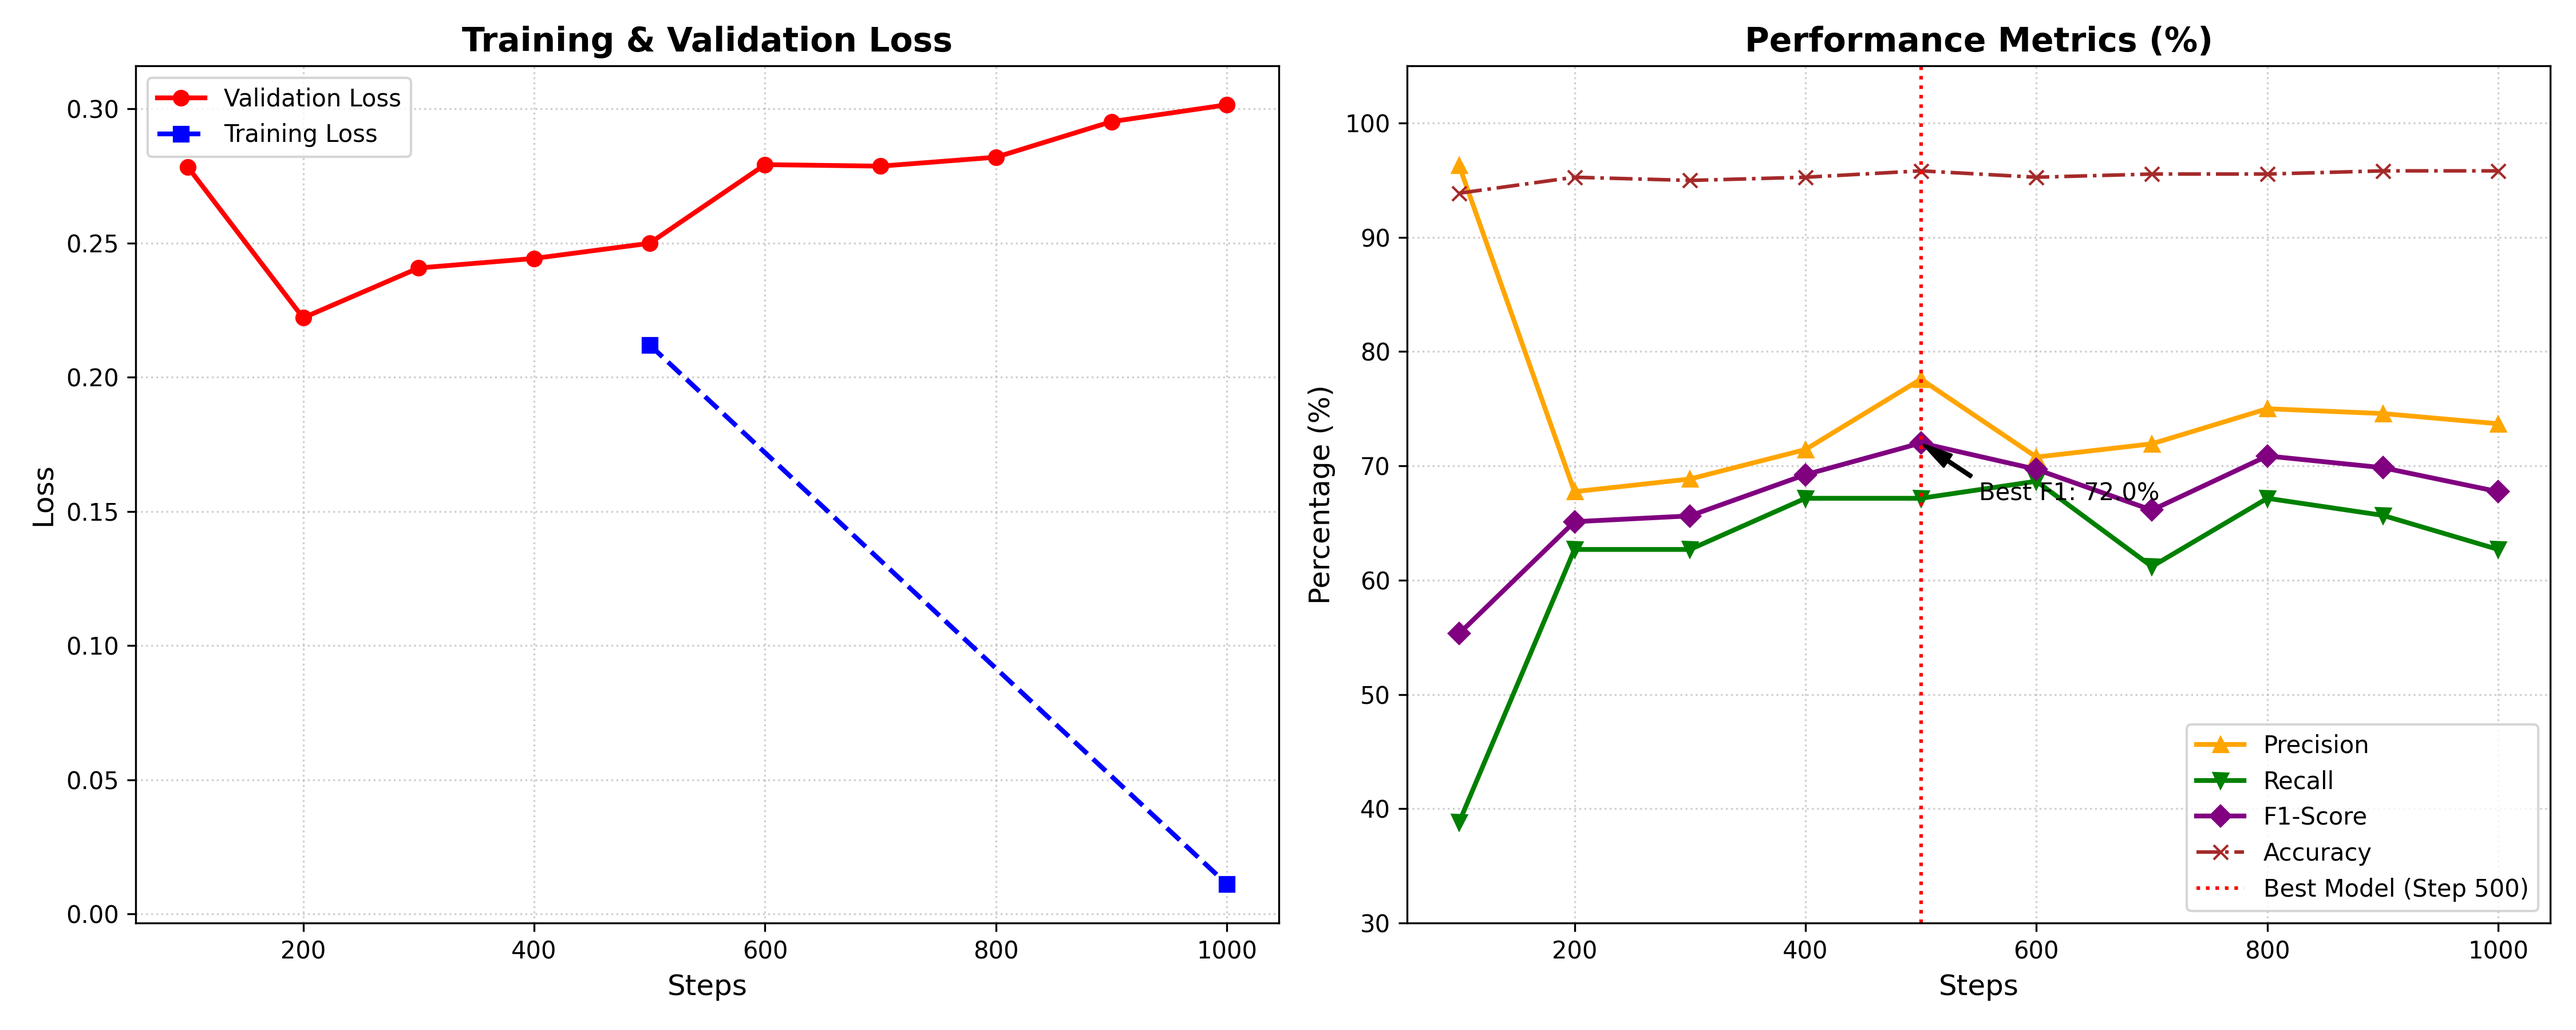
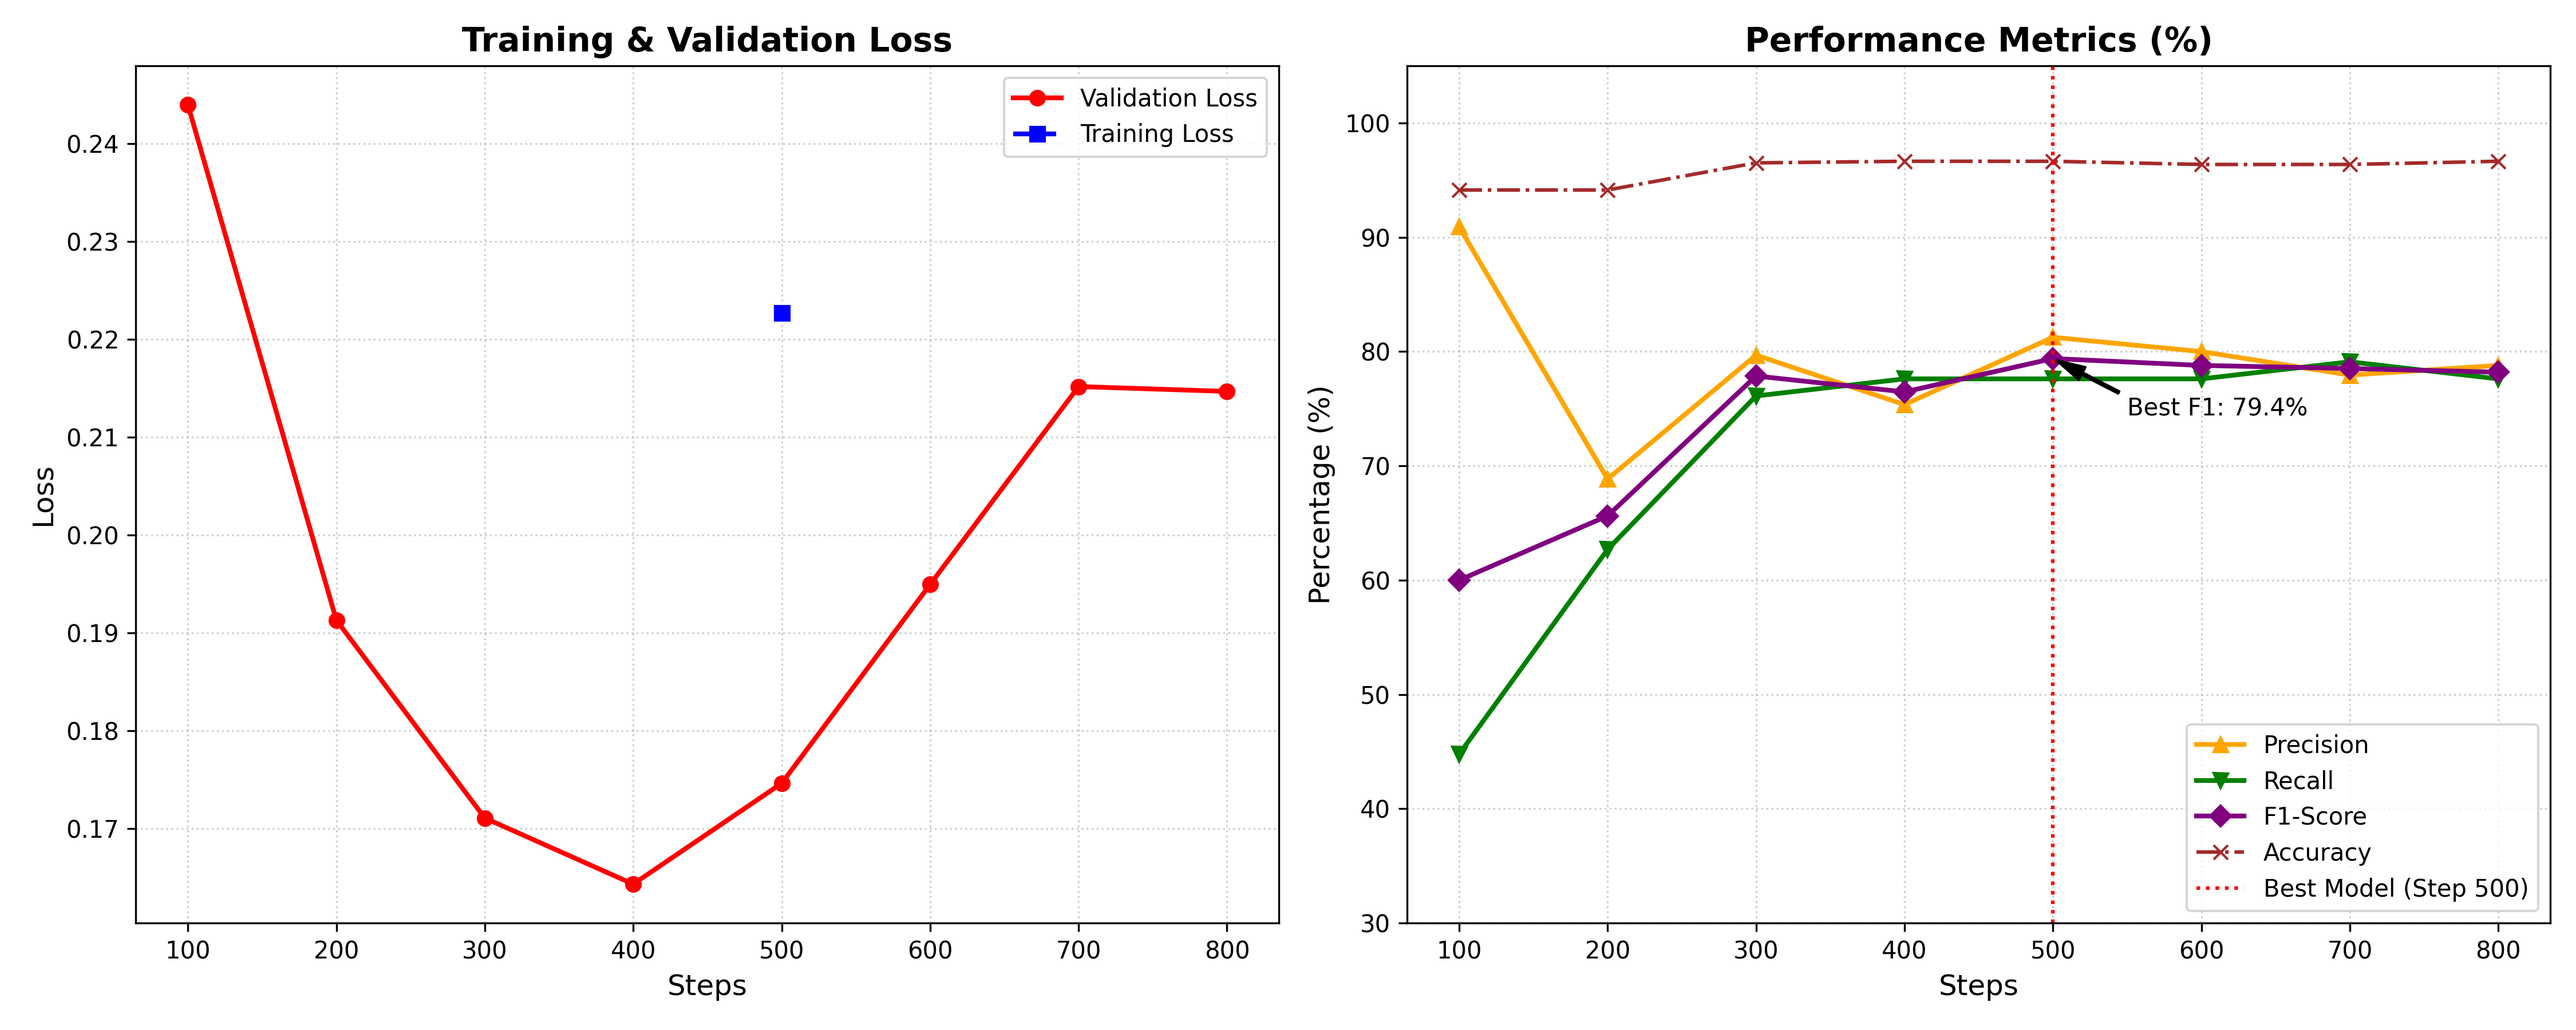
Retrain model chính thức với weight_decay + early stopping, cập nhật số liệu

diff --git a/src/plot_metrics.py b/src/plot_metrics.py
@@ -7,19 +7,24 @@ from pathlib import Path
 PROJECT_ROOT = Path(__file__).resolve().parent.parent
 
 def main():
-    state_path = str(PROJECT_ROOT / "layoutlmv3-medical" / "checkpoint-1000" / "trainer_state.json")
-    if not os.path.exists(state_path):
-        print(f"Error: Could not find {state_path}")
+    # Đọc từ `trainer_log_history.json` được lưu cùng model đã fine-tune
+    # (layoutlmv3-medical-finetuned/), KHÔNG đọc từ thư mục checkpoint trung gian
+    # (layoutlmv3-medical/checkpoint-*) -- thư mục đó bị `run_training()` tự dọn
+    # sau khi train xong (tránh làm đầy ổ đĩa, xem step5_layoutlmv3_finetune.py),
+    # nên log_history phải được lưu lại ở nơi bền vững trước khi checkpoint mất đi.
+    log_path = str(PROJECT_ROOT / "layoutlmv3-medical-finetuned" / "trainer_log_history.json")
+    if not os.path.exists(log_path):
+        print(f"Error: Could not find {log_path}. Hãy chạy lại src/step5_layoutlmv3_finetune.py trước.")
         return
 
-    with open(state_path, "r", encoding="utf-8") as f:
-        state_data = json.load(f)
+    with open(log_path, "r", encoding="utf-8") as f:
+        log_history = json.load(f)
 
     # Extract eval metrics and train metrics
     eval_history = []
     train_history = []
-    
-    for entry in state_data.get("log_history", []):
+
+    for entry in log_history:
         if "eval_loss" in entry:
             eval_history.append({
                 "step": entry["step"],
@@ -45,8 +50,11 @@ def main():
     for row in eval_history:
         print(f"| {row['step']:4d} | {row['epoch']:5.2f} | {row['loss']:.4f}    | {row['precision']*100:12.2f} | {row['recall']*100:9.2f} | {row['f1']*100:12.2f} | {row['accuracy']*100:11.2f} |")
     
+    best_row = max(eval_history, key=lambda row: row["f1"]) if eval_history else None
+
     print("\n" + "="*40)
-    print(f"Chỉ số tốt nhất (Best F1-Score): {state_data.get('best_metric', 0)*100:.2f}% tại checkpoint: {state_data.get('best_model_checkpoint', 'N/A')}")
+    if best_row:
+        print(f"Chỉ số tốt nhất (Best F1-Score): {best_row['f1']*100:.2f}% tại Step {best_row['step']}")
     print("="*40)
 
     # 2. Plotting the metrics
@@ -77,12 +85,12 @@ def main():
     ax2.plot(steps, [f*100 for f in f1], label="F1-Score", color="purple", marker="D", linewidth=2)
     ax2.plot(steps, [a*100 for a in accuracy], label="Accuracy", color="brown", marker="x", linestyle="-.", linewidth=1.5)
     
-    # Highlight best model checkpoint (F1 = 72% at step 500)
-    best_step = 500
-    best_f1 = 0.72 * 100
-    ax2.axvline(x=best_step, color="red", linestyle=":", label="Best Model (Step 500)")
-    ax2.annotate(f"Best F1: {best_f1:.1f}%", xy=(best_step, best_f1), xytext=(best_step+50, best_f1-5),
-                 arrowprops=dict(facecolor='black', shrink=0.05, width=1, headwidth=6))
+    # Highlight best model checkpoint (xác định động từ eval_history, không hardcode)
+    if best_row:
+        best_step, best_f1 = best_row["step"], best_row["f1"] * 100
+        ax2.axvline(x=best_step, color="red", linestyle=":", label=f"Best Model (Step {best_step})")
+        ax2.annotate(f"Best F1: {best_f1:.1f}%", xy=(best_step, best_f1), xytext=(best_step+50, best_f1-5),
+                     arrowprops=dict(facecolor='black', shrink=0.05, width=1, headwidth=6))
 
     ax2.set_title("Performance Metrics (%)", fontsize=14, fontweight="bold")
     ax2.set_xlabel("Steps", fontsize=12)

diff --git a/src/step5_layoutlmv3_finetune.py b/src/step5_layoutlmv3_finetune.py
@@ -224,6 +224,12 @@ def run_training(
     if save_dir:
         trainer.model.save_pretrained(save_dir)
         processor.save_pretrained(save_dir)
+        # Lưu lại toàn bộ log_history (loss/precision/recall/f1/accuracy theo từng
+        # eval step) VÀO save_dir trước khi run_output_dir (chứa checkpoint) bị dọn
+        # bên dưới -- nếu không, dữ liệu để vẽ lại biểu đồ huấn luyện (plot_metrics.py)
+        # sẽ bị mất vĩnh viễn cùng với checkpoint.
+        with open(os.path.join(save_dir, "trainer_log_history.json"), "w", encoding="utf-8") as f:
+            json.dump(trainer.state.log_history, f, ensure_ascii=False, indent=2)
 
     # Giải phóng bộ nhớ GPU trước khi chạy fold/run tiếp theo
     del trainer, model

diff --git a/README.md b/README.md
@@ -218,39 +218,37 @@ Vì tập gán nhãn chỉ có **45 tài liệu**, một lần chia train/test c
 
 | Loại thực thể | Baseline rule-based | LayoutLMv3, 1 lần chia (9 mẫu) | LayoutLMv3, **5-Fold out-of-fold (45 mẫu)** | Support (OOF) |
 |:---|:---:|:---:|:---:|:---:|
-| Lab_Value | 12.1% | 88.9% | **97.9%** | 145 |
+| Lab_Value | 12.1% | 100.0% | **97.9%** | 145 |
 | Medication | 0.0% | 80.0% | **76.9%** | 38 |
-| Diagnosis | 0.0% | 58.8% | **63.7%** | 74 |
-| Patient_Name | 21.1% | 82.4% | **62.5%** | 48 |
-| Dosage | 0.0% | 26.7% | **44.8%** | 82 |
-| **Micro avg (tổng)** | **11.3%** | **72.0%** | **73.6%** | 387 |
+| Diagnosis | 0.0% | 66.7% | **63.7%** | 74 |
+| Patient_Name | 21.1% | 70.0% | **62.5%** | 48 |
+| Dosage | 0.0% | 30.8% | **44.8%** | 82 |
+| **Micro avg (tổng)** | **11.3%** | **79.4%** | **73.6%** | 387 |
 
 **Nhận định:**
-*   F1 trung bình 5 fold (72.87%) và F1 out-of-fold (73.6%) đều rất khớp với con số 72.00% của lần chia đơn ban đầu — bằng chứng thống kê cho thấy con số này **không phải may rủi của 1 lần chia**, dù độ lệch chuẩn ±4.75% cho thấy vẫn còn dao động do dữ liệu nhỏ.
-*   Mô hình vượt baseline rule-based rõ rệt trên mọi loại thực thể (73.6% vs 11.3% F1 tổng) — việc fine-tune một mô hình đa phương thức thực sự cần thiết so với cách tiếp cận rule-based.
-*   So sánh cột "1 lần chia" và "out-of-fold" cho thấy lý do nên nghi ngờ số liệu đo trên tập nhỏ: `Patient_Name` trông rất tốt (82.4%) khi chỉ đo trên 10 thực thể, nhưng rơi xuống 62.5% khi đo trên 48 thực thể (out-of-fold) — con số ban đầu chỉ là may mắn trên vài mẫu test. Ngược lại `Dosage` trông rất tệ (26.7%, support 5) nhưng thực ra khá hơn (44.8%, support 82) khi đo trên nhiều thực thể hơn.
-*   **`Dosage` là loại thực thể yếu nhất một cách nhất quán ở cả 2 cách đo** — hướng cải thiện cụ thể, đáng ưu tiên nhất khi có thêm dữ liệu gán nhãn.
+*   F1 trung bình 5 fold (72.87%) và F1 out-of-fold (73.6%) đều gần với con số 79.4% của lần chia đơn (checkpoint triển khai chính thức) nhưng **thấp hơn khoảng 6-7 điểm** — đây chính là bằng chứng cụ thể cho lý do phải dùng K-Fold CV thay vì tin vào 1 lần chia: dù dùng đúng config đã regularize, 1 lần chia 9 mẫu vẫn có thể "may mắn" hơn ước lượng trung bình thật sự trên toàn bộ dữ liệu. **Con số 72.87% (± 4.75%) / 73.6% out-of-fold mới là ước lượng đáng tin cậy về khả năng tổng quát hoá thật của mô hình**, không phải 79.4%.
+*   Mô hình vượt baseline rule-based rõ rệt trên mọi loại thực thể (73.6% vs 11.3% F1 tổng, đo out-of-fold) — việc fine-tune một mô hình đa phương thức thực sự cần thiết so với cách tiếp cận rule-based.
+*   So sánh cột "1 lần chia" và "out-of-fold" tiếp tục cho thấy vì sao nên nghi ngờ số liệu đo trên tập nhỏ: `Patient_Name` trông khá tốt (70.0%) khi chỉ đo trên 10 thực thể, nhưng rơi xuống 62.5% khi đo trên 48 thực thể (out-of-fold). Ngược lại `Dosage` trông tệ hơn thực tế (30.8%, support 5) so với con số đo trên nhiều thực thể hơn (44.8%, support 82).
+*   **`Dosage` là loại thực thể yếu nhất một cách nhất quán ở mọi cách đo** — hướng cải thiện cụ thể, đáng ưu tiên nhất khi có thêm dữ liệu gán nhãn.
 
 ### 2. Quá trình huấn luyện chính thức (Bước 5, 1 lần chia)
 
-Model triển khai (`layoutlmv3-medical-finetuned/`) được chọn theo checkpoint tốt nhất của lần huấn luyện chính thức này (1000 bước, chia cố định 36 train / 9 test):
+Model triển khai (`layoutlmv3-medical-finetuned/`) được chọn theo checkpoint tốt nhất của lần huấn luyện chính thức này (chia cố định 36 train / 9 test, `weight_decay=0.01` + `EarlyStoppingCallback`):
 
 ![Biểu Đồ Huấn Luyện LayoutLMv3](assets/training_progress.png)
 
 | Step | Epoch | Eval Loss | Precision (%) | Recall (%) | F1-Score (%) | Accuracy (%) |
 |:---:|:---:|:---:|:---:|:---:|:---:|:---:|
-| 100 | 11.11 | 0.2784 | 96.30 | 38.81 | 55.32 | 93.85 |
-| 200 | 22.22 | 0.2221 | 67.74 | 62.69 | 65.12 | 95.25 |
-| 300 | 33.33 | 0.2407 | 68.85 | 62.69 | 65.63 | 94.97 |
-| 400 | 44.44 | 0.2443 | 71.43 | 67.16 | 69.23 | 95.25 |
-| **500 (Best)** | **55.56** | **0.2499** | **77.59** | **67.16** | **72.00** | **95.81** |
-| 600 | 66.67 | 0.2793 | 70.77 | 68.66 | 69.70 | 95.25 |
-| 700 | 77.78 | 0.2787 | 71.93 | 61.19 | 66.13 | 95.53 |
-| 800 | 88.89 | 0.2820 | 75.00 | 67.16 | 70.87 | 95.53 |
-| 900 | 100.00 | 0.2953 | 74.58 | 65.67 | 69.84 | 95.81 |
-| 1000 | 111.11 | 0.3016 | 73.68 | 62.69 | 67.74 | 95.81 |
+| 100 | 11.11 | 0.2439 | 90.91 | 44.78 | 60.00 | 94.13 |
+| 200 | 22.22 | 0.1913 | 68.85 | 62.69 | 65.63 | 94.13 |
+| 300 | 33.33 | 0.1711 | 79.69 | 76.12 | 77.86 | 96.51 |
+| 400 | 44.44 | 0.1643 | 75.36 | 77.61 | 76.47 | 96.65 |
+| **500 (Best)** | **55.56** | **0.1746** | **81.25** | **77.61** | **79.39** | **96.65** |
+| 600 | 66.67 | 0.1949 | 80.00 | 77.61 | 78.79 | 96.37 |
+| 700 | 77.78 | 0.2152 | 77.94 | 79.10 | 78.52 | 96.37 |
+| 800 | 88.89 | 0.2147 | 78.79 | 77.61 | 78.20 | 96.65 |
 
-Checkpoint tốt nhất (Step 500, F1 72.00%) được tự động trích xuất làm trọng số triển khai. Huấn luyện hiện đã bổ sung `weight_decay=0.01` và `EarlyStoppingCallback` để giảm overfitting (eval loss từng có xu hướng tăng nhẹ sau Step 500 ở lần chạy gốc).
+Checkpoint tốt nhất (Step 500, F1 **79.39%**) được tự động trích xuất làm trọng số triển khai. `EarlyStoppingCallback` dừng huấn luyện ở Step 800 (3 lần eval liên tiếp không cải thiện F1 so với Step 500) thay vì chạy hết 1000 bước như cấu hình tối đa — tiết kiệm compute và tránh overfitting thêm. So với lần chạy gốc chưa có regularization (F1 tốt nhất 72.00%, eval loss tăng dần không kiểm soát tới 0.30 ở step 1000), lần chạy này có eval loss được kiểm soát tốt hơn nhiều (đỉnh chỉ ~0.215) và F1 cao hơn hẳn — **nhưng lưu ý con số 79.39% này là kết quả của 1 lần chia dữ liệu**, xem mục 5-Fold CV ở trên để có ước lượng đáng tin cậy hơn về khả năng tổng quát hoá thật (72.87% ± 4.75%).
 
 Chạy lại đánh giá / vẽ lại biểu đồ:
 ```powershell
